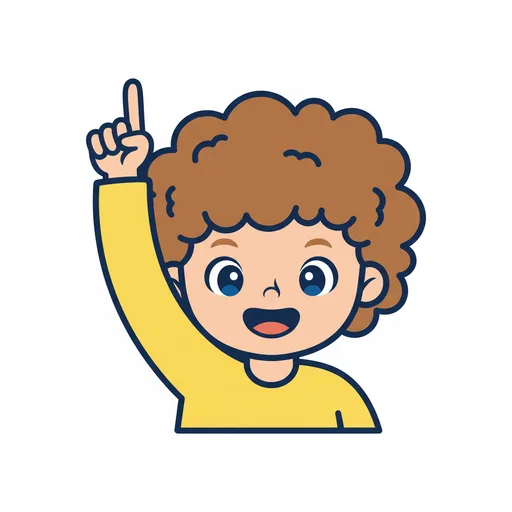
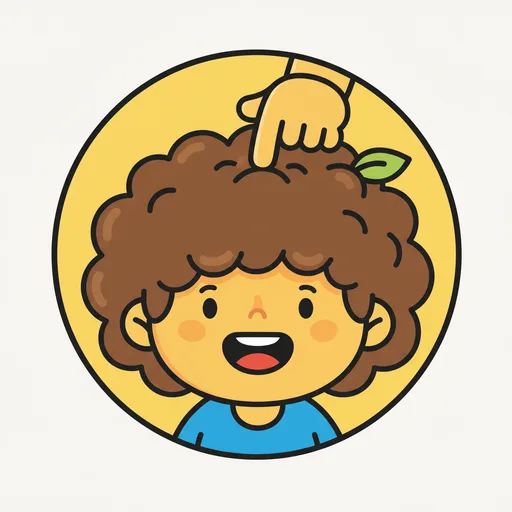
Fix: Hair symbol — fingertip rests on the hair (not the sky)

diff --git a/TINYVVOICE_PROJECT_CONTEXT.md b/TINYVVOICE_PROJECT_CONTEXT.md
@@ -5,16 +5,16 @@ A git pre-commit hook auto-refreshes the metadata block below; the human-maintai
 sections (Build Status, Next Steps) are updated by hand each push.
 
 <!-- AUTO:START -->
-> _Auto-updated on commit — last refreshed **2026-08-01 05:19 UTC** on branch `main`._
+> _Auto-updated on commit — last refreshed **2026-08-01 05:21 UTC** on branch `main`._
 
 **Recent commits:**
 
+- `88ffc36 Fix: clearer Hair/Ears symbols — reposition the pointing hand`
 - `3e1999f Feat: Word Board is 4 columns on every screen (gap-free)`
 - `0c6ac80 Assets: fill-out symbols + word/counting clips (3 voices)`
 - `92d56c0 Feat: Word Board vocab fill-out + Counting 11-20 pacing`
 - `dc85a3e Assets: re-rendered voice clips (3 voices) + new Word Board symbols`
 - `48e3737 Fix: natural learner pace in the Listening Game`
-- `0f58d1a Feat: Word Board AAC redesign (stable positions) + vocab reshape`
 <!-- AUTO:END -->
 
 ---
